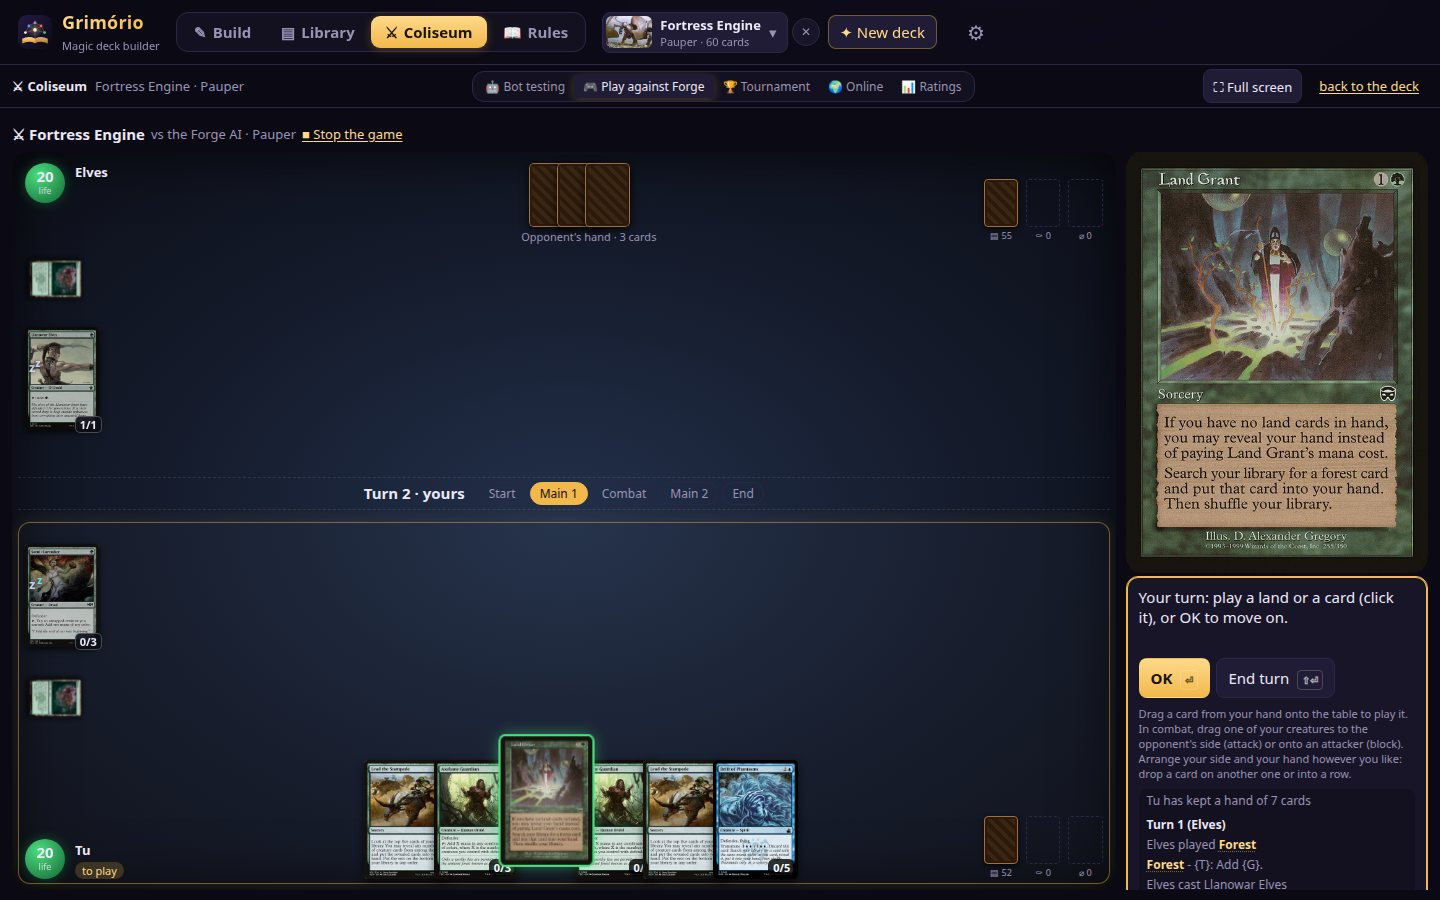
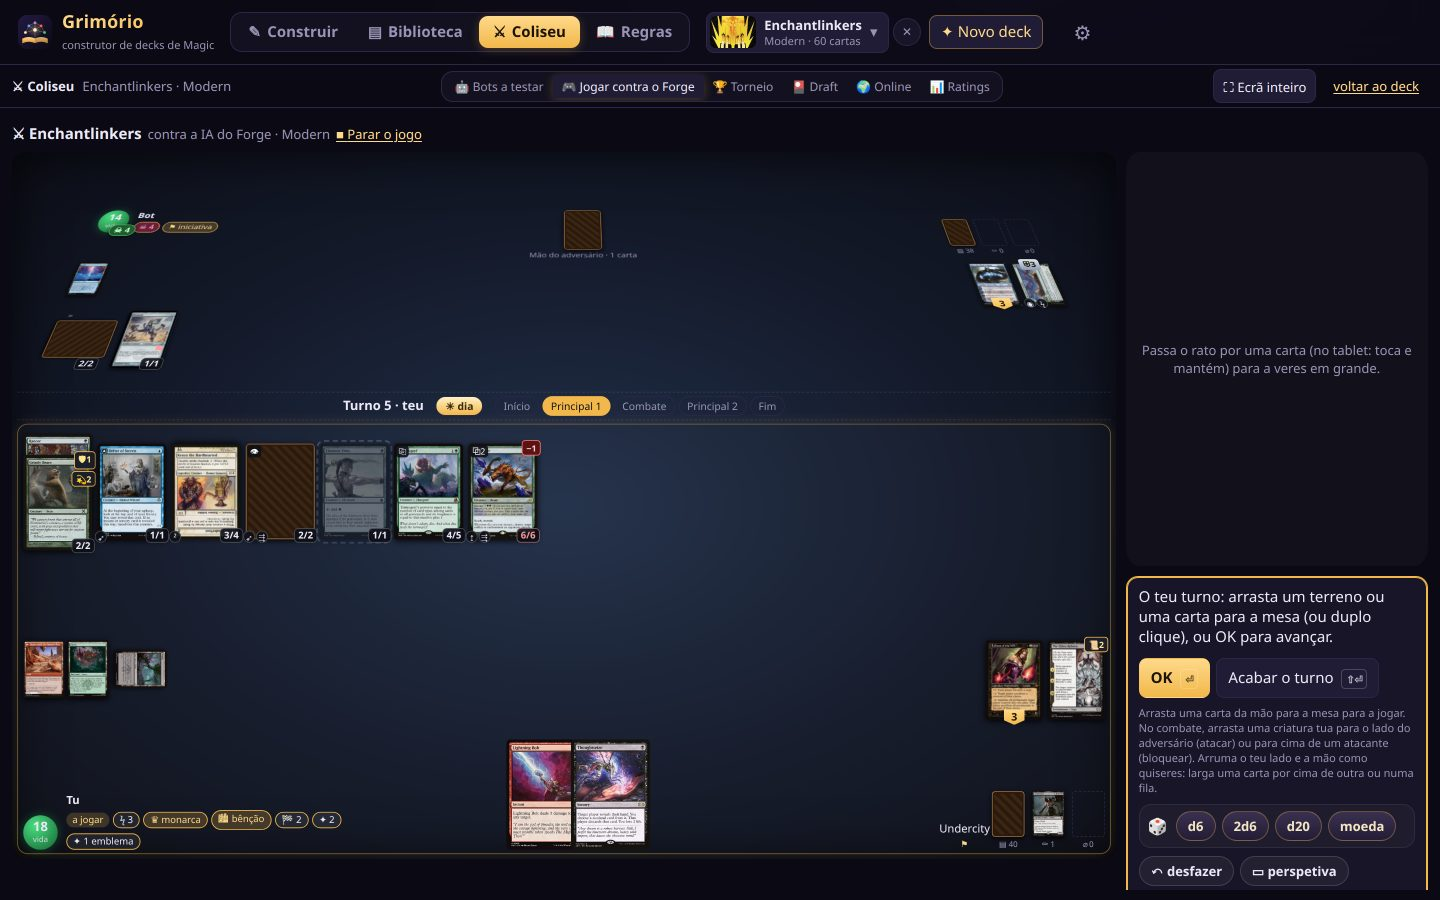
READMEs 1.11: mesa livre online, mecânicas à vista, torneios de equipas, assistente com memória; capturas novas (mesa livre, equipas, Forge Play)

diff --git a/README.de.md b/README.de.md
@@ -28,6 +28,7 @@ Die Oberfläche gibt es auf **English** (Standard), **Português**, **Español**
 <tr><td width="50%"><a href="docs/img/tournament.jpg"><img src="docs/img/tournament.jpg" alt="Turniere: Live-Podium, Tabelle und Herkunfts-Tags der Decks"></a><br><sub>Turniere: Live-Podium, Tabelle und Herkunfts-Tags der Decks</sub></td><td width="50%"><a href="docs/img/online.jpg"><img src="docs/img/online.jpg" alt="Online-Räume: einzelne Partien oder Turniere über einen öffentlichen Link"></a><br><sub>Online-Räume: einzelne Partien oder Turniere über einen öffentlichen Link</sub></td></tr>
 <tr><td width="50%"><a href="docs/img/ratings.jpg"><img src="docs/img/ratings.jpg" alt="Ratings: Sterne pro Deck und die automatische Arena"></a><br><sub>Ratings: Sterne pro Deck und die automatische Arena</sub></td><td width="50%"><a href="docs/img/table.jpg"><img src="docs/img/table.jpg" alt="Am Tisch: Lebenszähler, 3D-Würfel und Kartenscanner"></a><br><sub>Am Tisch: Lebenszähler, 3D-Würfel und Kartenscanner</sub></td></tr>
 <tr><td width="50%"><a href="docs/img/draft.jpg"><img src="docs/img/draft.jpg" alt="Draft und Sealed: echte Packs, Forge-Bots und danach ein Turnier"></a><br><sub>Draft und Sealed: echte Packs, Forge-Bots und danach ein Turnier</sub></td><td width="50%"><a href="docs/img/sideboard.jpg"><img src="docs/img/sideboard.jpg" alt="Sideboard: Antworten auf das, wogegen du in Tests verlierst"></a><br><sub>Sideboard: Antworten auf das, wogegen du in Tests verlierst</sub></td></tr>
+<tr><td width="50%"><a href="docs/img/freetable.jpg"><img src="docs/img/freetable.jpg" alt="Freier Tisch online: Perspektive, Würfel, Chat mit Kartenerwähnungen"></a><br><sub>Freier Tisch online: Perspektive, Würfel, Chat mit Kartenerwähnungen</sub></td><td width="50%"><a href="docs/img/teams.jpg"><img src="docs/img/teams.jpg" alt="Teamturniere: am selben Tisch und Two-Headed Giant"></a><br><sub>Teamturniere: am selben Tisch und Two-Headed Giant</sub></td></tr>
 </table>
 
 ## Installation
@@ -169,6 +170,21 @@ nur ihre eigenen Daten; der Cloud-Ordner ist für Computer und Server mit einem 
   auf dem Handy): Zonen springen nicht bei neuen Karten oder der Browserleiste, volle Reihen schieben die Karten
   übereinander. Karten gleiten zwischen den Zügen, eine Aura, Removal oder Ausrüstung auf eine Kreatur fallen lassen wählt
   sie als Ziel, Hellsicht und Überwachen als zwei Stapel, Bibliothekssuche als filterbares Raster und Gift, das am ☠ steigt.
+- **Freier Tisch online, solo und als Turnier** – Spiele nur unter Freunden, ohne Bots und ohne automatische Regeln:
+  jeder bewegt seine Karten wie an einem echten Tisch (ziehen, tappen, Marken, Spielsteine, Leben, Gift, Energie,
+  Commander-Schaden, Monarch, Tag/Nacht), mit Perspektive, 3D-Würfeln zum Greifen und Werfen (der Freund sieht denselben
+  Wurf von seiner Seite), einem leuchtenden Stift, der verblasst, und Chat mit @Karten und #Regeln. Hände und Bibliotheken
+  bleiben auf dem Server verborgen. Jeder drückt «Bereit»; Freunde ohne Decks spielen mit einem geliehenen, Meta- oder
+  eingefügten Deck; Beitritt mit einem Profil dieses Grimório oder eines anderen (die App eines Freundes). Solo-Tisch zum
+  Testen von Decks und Turniere am freien Tisch.
+- **Mechaniken an allen Tischen sichtbar** – Gift und Energie, Loyalität von Planeswalkern rauf und runter, Battles,
+  Sagas, doppelseitige und MDFC-Karten, Flip-Karten, verdeckte Karten, Kopien, Embleme, angelegte Auren und Ausrüstung,
+  Monarch, Initiative, Tag/Nacht, Phasing, Mutate und Karten, die aus dem Friedhof zurückkommen – alles animiert.
+- **Echte Teamturniere** – 2 gegen 2 am selben Tisch oder Two-Headed Giant (geteiltes Leben), Teams nach Format und
+  Rating ausgeglichen, fairerer Generator; Register mit Statusanzeige, Filtern, Sortierung und Seiten, auch Ruhmeshalle
+  und Trophäengalerie mit Seiten. Spiele gegen Forge zählen für die Ratings.
+- **KI-Assistent mit Gedächtnis** – jedes Deck speichert, was du gefragt hast, was die KI sagte und was du übernommen
+  hast, und die KI bekommt diesen Verlauf; sie kürzt genau den Überschuss über 60 (oder 100 im Commander).
 - **KI-Assistent (optional)** – Schlüssel mehrerer Anbieter, neueste Modelle automatisch erkannt; er ändert dein Deck
   direkt (Tausch, Mengen, Ersatz für jede Karte) mit einem Klick.
 - **Kolosseum (Forge-KI)** – KI gegen KI mit echten Regeln (Bo1/Bo3, cleveres Sideboarding, lernend), Jeder gegen jeden

diff --git a/README.es.md b/README.es.md
@@ -28,6 +28,7 @@ La interfaz está disponible en **English** (predeterminado), **Português**, **
 <tr><td width="50%"><a href="docs/img/tournament.jpg"><img src="docs/img/tournament.jpg" alt="Torneos: podio en directo, clasificación y etiquetas de origen de los mazos"></a><br><sub>Torneos: podio en directo, clasificación y etiquetas de origen de los mazos</sub></td><td width="50%"><a href="docs/img/online.jpg"><img src="docs/img/online.jpg" alt="Salas en línea: partidas sueltas o torneos con un enlace público"></a><br><sub>Salas en línea: partidas sueltas o torneos con un enlace público</sub></td></tr>
 <tr><td width="50%"><a href="docs/img/ratings.jpg"><img src="docs/img/ratings.jpg" alt="Ratings: estrellas por mazo y la Arena automática"></a><br><sub>Ratings: estrellas por mazo y la Arena automática</sub></td><td width="50%"><a href="docs/img/table.jpg"><img src="docs/img/table.jpg" alt="En la mesa: contador de vidas, dados en 3D y escáner de cartas"></a><br><sub>En la mesa: contador de vidas, dados en 3D y escáner de cartas</sub></td></tr>
 <tr><td width="50%"><a href="docs/img/draft.jpg"><img src="docs/img/draft.jpg" alt="Draft y Sellado: sobres reales, bots de Forge y un torneo al final"></a><br><sub>Draft y Sellado: sobres reales, bots de Forge y un torneo al final</sub></td><td width="50%"><a href="docs/img/sideboard.jpg"><img src="docs/img/sideboard.jpg" alt="Banquillo: respuestas a lo que te gana en las pruebas"></a><br><sub>Banquillo: respuestas a lo que te gana en las pruebas</sub></td></tr>
+<tr><td width="50%"><a href="docs/img/freetable.jpg"><img src="docs/img/freetable.jpg" alt="Mesa libre online: perspectiva, dados, chat con cartas mencionadas"></a><br><sub>Mesa libre online: perspectiva, dados, chat con cartas mencionadas</sub></td><td width="50%"><a href="docs/img/teams.jpg"><img src="docs/img/teams.jpg" alt="Torneos por equipos: misma mesa y Two-Headed Giant"></a><br><sub>Torneos por equipos: misma mesa y Two-Headed Giant</sub></td></tr>
 </table>
 
 ## Instalación
@@ -171,6 +172,20 @@ en la nube es para ordenadores y servidores de un solo dueño.
   móvil): las zonas no saltan con cartas nuevas ni con la barra del navegador y las filas llenas solapan las cartas. Las
   cartas se deslizan entre jugadas, soltar un aura, remoción o equipo sobre una criatura la elige como objetivo, adivinar
   y vigilar en dos montones, buscar en la biblioteca en una cuadrícula con filtro y el veneno subiendo en el ☠.
+- **Mesa libre online, en solitario y en torneo**: partidas solo entre amigos, sin bots ni reglas automáticas: cada uno
+  mueve sus cartas como en una mesa de verdad (arrastrar, girar, contadores, fichas, vida, veneno, energía, daño de
+  comandante, monarca, día/noche), con perspectiva, dados 3D que se cogen y se lanzan (el amigo ve la misma tirada desde
+  su lado), un lápiz que brilla y se desvanece, y chat con @cartas y #reglas. Manos y bibliotecas ocultas en el servidor.
+  «Listo» de cada uno antes de empezar; amigos sin mazos se sientan con uno prestado, del meta o pegado; se entra con el
+  perfil de este Grimório o con el de otro (la app de un amigo). Mesa en solitario para probar mazos y torneos de mesa libre.
+- **Mecánicas a la vista en todas las mesas**: veneno y energía, lealtad de planeswalkers que sube y baja, batallas,
+  sagas, cartas de doble cara y MDFC, cartas flip, boca abajo, copias, emblemas, auras y equipos anexados, monarca,
+  iniciativa, día/noche, phasing, mutate y cartas que vuelven del cementerio, todo animado.
+- **Torneos por equipos de verdad**: 2 contra 2 en la misma mesa o Two-Headed Giant (vida compartida), equipos
+  equilibrados por formato y rating, generador más justo; Registro con panel de estado, filtros, orden y páginas, y el
+  Salón de la fama y la galería de trofeos también paginados. Las partidas contra Forge cuentan para los ratings.
+- **Asistente de IA con memoria**: cada mazo guarda lo que pediste, lo que dijo la IA y lo que aplicaste, y la IA recibe
+  ese historial; recorta exactamente el exceso por encima de 60 (o 100 en Commander).
 - **Asistente de IA (opcional)**: claves de varios proveedores, modelos más recientes detectados solos; cambia tu mazo
   directamente (cambios, cantidades, sustitutos para cualquier carta) con un clic.
 - **Coliseo (IA de Forge)**: IA contra IA con reglas reales (Bo1/Bo3, sideboard inteligente, aprendizaje), todos

diff --git a/README.pt.md b/README.pt.md
@@ -27,6 +27,7 @@ A interface está disponível em **English** (predefinição), **Português**, *
 <tr><td width="50%"><a href="docs/img/tournament.jpg"><img src="docs/img/tournament.jpg" alt="Torneios: pódio ao vivo, classificação e a origem de cada deck"></a><br><sub>Torneios: pódio ao vivo, classificação e a origem de cada deck</sub></td><td width="50%"><a href="docs/img/online.jpg"><img src="docs/img/online.jpg" alt="Salas online: jogos avulsos ou torneios por um link público"></a><br><sub>Salas online: jogos avulsos ou torneios por um link público</sub></td></tr>
 <tr><td width="50%"><a href="docs/img/ratings.jpg"><img src="docs/img/ratings.jpg" alt="Ratings: estrelas por deck e a Arena automática"></a><br><sub>Ratings: estrelas por deck e a Arena automática</sub></td><td width="50%"><a href="docs/img/table.jpg"><img src="docs/img/table.jpg" alt="À mesa: contador de vida, dados 3D e leitor de cartas"></a><br><sub>À mesa: contador de vida, dados 3D e leitor de cartas</sub></td></tr>
 <tr><td width="50%"><a href="docs/img/draft.jpg"><img src="docs/img/draft.jpg" alt="Draft e Selado: packs reais, bots do Forge e um torneio no fim"></a><br><sub>Draft e Selado: packs reais, bots do Forge e um torneio no fim</sub></td><td width="50%"><a href="docs/img/sideboard.jpg"><img src="docs/img/sideboard.jpg" alt="Sideboard: respostas ao que te vence nos testes"></a><br><sub>Sideboard: respostas ao que te vence nos testes</sub></td></tr>
+<tr><td width="50%"><a href="docs/img/freetable.jpg"><img src="docs/img/freetable.jpg" alt="Mesa livre online: perspetiva, dados, conversa com cartas mencionadas"></a><br><sub>Mesa livre online: perspetiva, dados, conversa com cartas mencionadas</sub></td><td width="50%"><a href="docs/img/teams.jpg"><img src="docs/img/teams.jpg" alt="Torneios de equipas: à mesma mesa e Two-Headed Giant"></a><br><sub>Torneios de equipas: à mesma mesa e Two-Headed Giant</sub></td></tr>
 </table>
 
 ## Instalar
@@ -164,6 +165,20 @@ computadores e servidores de um só dono.
   as zonas não saltam com cartas novas nem com a barra do browser e filas cheias encostam as cartas. As cartas deslizam
   entre jogadas, largar uma aura, remoção ou equipamento em cima de uma criatura escolhe-a como alvo, scry e vigiar em dois
   montes, procurar na biblioteca numa grelha com filtro e o veneno a subir no ☠.
+- **Mesa livre online, a solo e em torneio** — jogos só entre amigos, sem bots nem regras automáticas: cada um mexe nas
+  suas cartas como numa mesa a sério (arrastar, virar, marcadores, fichas, vida, veneno, energia, dano de comandante,
+  monarca, dia/noite), com perspetiva, dados 3D que se pegam e atiram (o amigo vê o mesmo lançamento do lado dele),
+  caneta que brilha e desaparece, e conversa com @cartas e #regras. Mãos e grimórios escondidos no servidor. «Pronto»
+  de cada um antes de começar; amigos sem decks sentam-se com um deck emprestado, do meta ou colado; entra-se com o
+  perfil deste Grimório ou com o de outro (a app de um amigo). Mesa a solo para testar decks e torneios de mesa livre.
+- **Mecânicas à vista em todas as mesas** — veneno e energia, lealdade dos planeswalkers a subir e a descer, battles,
+  sagas, cartas de duas faces e MDFC, cartas flip, viradas para baixo, cópias, emblemas, auras e equipamentos presos,
+  monarca, iniciativa, dia/noite, phasing, mutate e cartas que voltam do cemitério com animação.
+- **Torneios de equipas a sério** — 2 contra 2 à mesma mesa ou Two-Headed Giant (vida partilhada), equipas equilibradas
+  por formato e por rating, gerador mais justo; Registo com painel de estado, filtros, ordenação e páginas, e o Hall da
+  fama e a galeria de troféus também com páginas. Os jogos contra o Forge contam para os ratings.
+- **Assistente de IA com memória** — cada deck guarda o que pediste, o que a IA disse e o que aplicaste, e a IA recebe
+  esse histórico; corta exatamente o excesso acima de 60 (ou 100 em Commander).
 - **Assistente de IA (opcional)** — chaves de vários fornecedores, modelos mais recentes detetados sozinhos; muda o
   deck diretamente (trocas, quantidades, substitutos para qualquer carta) com um clique.
 - **Coliseu (IA do Forge)** — IA contra IA com regras reais (Bo1/Bo3, sideboard inteligente, aprendizagem), todos contra

diff --git a/README.md b/README.md
@@ -27,6 +27,7 @@ The interface is available in **English** (default), **Português**, **Español*
 <tr><td width="50%"><a href="docs/img/tournament.jpg"><img src="docs/img/tournament.jpg" alt="Tournaments: live podium, standings and deck origin tags"></a><br><sub>Tournaments: live podium, standings and deck origin tags</sub></td><td width="50%"><a href="docs/img/online.jpg"><img src="docs/img/online.jpg" alt="Online rooms: single games or tournaments by a public link"></a><br><sub>Online rooms: single games or tournaments by a public link</sub></td></tr>
 <tr><td width="50%"><a href="docs/img/ratings.jpg"><img src="docs/img/ratings.jpg" alt="Ratings: stars per deck and the automatic Arena"></a><br><sub>Ratings: stars per deck and the automatic Arena</sub></td><td width="50%"><a href="docs/img/table.jpg"><img src="docs/img/table.jpg" alt="At the table: life counter, 3D dice and card scanner"></a><br><sub>At the table: life counter, 3D dice and card scanner</sub></td></tr>
 <tr><td width="50%"><a href="docs/img/draft.jpg"><img src="docs/img/draft.jpg" alt="Draft and Sealed: real packs, Forge bots and a tournament afterwards"></a><br><sub>Draft and Sealed: real packs, Forge bots and a tournament afterwards</sub></td><td width="50%"><a href="docs/img/sideboard.jpg"><img src="docs/img/sideboard.jpg" alt="Sideboard: answers to what you lose to in your tests"></a><br><sub>Sideboard: answers to what you lose to in your tests</sub></td></tr>
+<tr><td width="50%"><a href="docs/img/freetable.jpg"><img src="docs/img/freetable.jpg" alt="Free table online: perspective, dice, chat with card mentions"></a><br><sub>Free table online: perspective, dice, chat with card mentions</sub></td><td width="50%"><a href="docs/img/teams.jpg"><img src="docs/img/teams.jpg" alt="Team tournaments: same table and Two-Headed Giant"></a><br><sub>Team tournaments: same table and Two-Headed Giant</sub></td></tr>
 </table>
 
 ## Install
@@ -161,6 +162,20 @@ sync is for computers and single-owner servers.
   phones): zones never jump when cards arrive or the browser bar moves, and crowded rows overlap their cards. Cards glide
   between plays, dropping an aura, removal or equipment on a creature targets it, scry and surveil as two piles, library
   searches as a filterable grid, and poison ticking up on the ☠.
+- **Free table online, solo and in tournaments** — games between friends only, no bots and no automatic rules: everyone
+  handles their own cards like at a real table (drag, tap, counters, tokens, life, poison, energy, commander damage,
+  monarch, day/night), with perspective, 3D dice you grab and throw (your friend sees the same throw from their side),
+  a glowing pen that fades, and chat with @cards and #rules. Hands and libraries hidden on the server. Everyone presses
+  «Ready» before starting; friends without decks sit with a lent, meta or pasted deck; join as a profile of this
+  Grimório or of another one (a friend's app). Solo table to playtest decks, and free-table tournaments.
+- **Mechanics in view on every table** — poison and energy, planeswalker loyalty going up and down, battles, sagas,
+  double-faced and MDFC cards, flip cards, face-down cards, copies, emblems, attached auras and equipment, monarch,
+  initiative, day/night, phasing, mutate and cards returning from the graveyard, all animated.
+- **Real team tournaments** — 2 vs 2 at one table or Two-Headed Giant (shared life), teams balanced by format and rating,
+  a fairer generator; Registry with a status panel, filters, sorting and pages, and the Hall of fame and trophy gallery
+  paged too. Games against Forge count towards ratings.
+- **AI assistant with memory** — each deck keeps what you asked, what the AI said and what you applied, and the AI gets
+  that history; it cuts exactly the excess above 60 (or 100 in Commander).
 - **AI assistant (optional)** — keys for several providers, newest models detected automatically; it changes your deck
   directly (swaps, quantities, substitutes for any card) with one click.
 - **Coliseum (Forge AI)** — AI vs AI with real rules (Bo1/Bo3, smart sideboarding, learning), 3–4 player free-for-all
